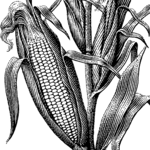
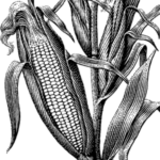
fully resized

diff --git a/Gui.py b/Gui.py
@@ -411,7 +411,7 @@ class Main_wind(Wind):
         # 물건의 클래스 이름을 받아 적절한 이미지 배치
         self.item_class = getclass(self.current_item_name).type
         self.item_pixmap = QPixmap(
-            "images/Raw File/{}/{}.png".format(self.item_class, self.current_item_name))  # 픽스맵 불러오기
+            "images/Resized/{}/{}.png".format(self.item_class, self.current_item_name))  # 픽스맵 불러오기
         self.ProductImageLabel.setPixmap(self.item_pixmap)  # 픽스맵 띄우기
         self.refresh()  # 새로고침
 
